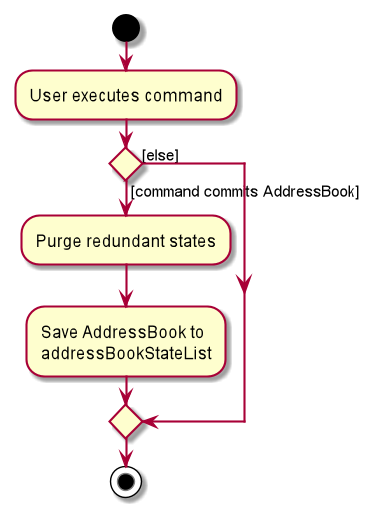
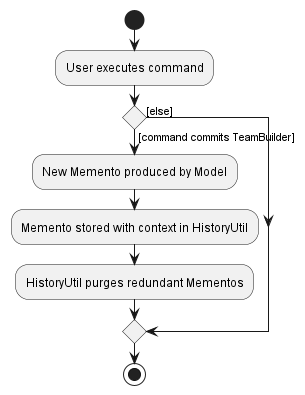
Update Undo/Redo DG

diff --git a/docs/DeveloperGuide.md b/docs/DeveloperGuide.md
@@ -1,7 +1,16 @@
 ---
 layout: page
 title: Developer Guide
+include: style.css 
 ---
+<style> 
+   img.center {
+      display: block;
+      margin-left: auto;
+      margin-right: auto;
+   }
+</style>
+
 * Table of Contents
 {:toc}
 
@@ -71,7 +80,7 @@ The sections below give more details of each component.
 
 The **API** of this component is specified in [`Ui.java`](https://github.com/se-edu/addressbook-level3/tree/master/src/main/java/seedu/address/ui/Ui.java)
 
-![Structure of the UI Component](images/UiClassDiagram.png)
+![Structure of the UI Component](images/UiClassDiagram.png) 
 
 The UI consists of a `MainWindow` that is made up of parts e.g.`CommandBox`, `ResultDisplay`, `PersonListPanel`, `StatusBarFooter` etc. All these, including the `MainWindow`, inherit from the abstract `UiPart` class which captures the commonalities between classes that represent parts of the visible GUI.
 
@@ -154,85 +163,104 @@ Classes used by multiple components are in the `seedu.addressbook.commons` packa
 
 This section describes some noteworthy details on how certain features are implemented.
 
-### \[Proposed\] Undo/redo feature
+### Undo/Redo feature
 
-#### Proposed Implementation
+#### Implementation
 
-The proposed undo/redo mechanism is facilitated by `VersionedAddressBook`. It extends `AddressBook` with an undo/redo history, stored internally as an `addressBookStateList` and `currentStatePointer`. Additionally, it implements the following operations:
+The `undo`/`redo` mechanism is based on the memento design pattern. Within the memento design pattern, there are three main classes:
 
-* `VersionedAddressBook#commit()` — Saves the current address book state in its history.
-* `VersionedAddressBook#undo()` — Restores the previous address book state from its history.
-* `VersionedAddressBook#redo()` — Restores a previously undone address book state from its history.
+1. `Originator` - The object that becomes modified and requires to be restored using `undo`/`redo`.
+2. `Memento` - The wrapper of a saved state of an `Originator` that is used to restore the `Originator`.
+3. `Caretaker` - The aggregator of `Memento` that controls the sequence of `Memento`s for `undo`/`redo`.
 
-These operations are exposed in the `Model` interface as `Model#commitAddressBook()`, `Model#undoAddressBook()` and `Model#redoAddressBook()` respectively.
+![Memento Design Pattern](images/MementoDesignPatternDiagram.png){:.center}
+
+While the Memento Design Pattern is mostly used for `Undo`, we can extend its functionality to include `Redo`.
+
+Implementing this design pattern results in the following:
+
+- `Model` inferface extends the `Originator` interface, resulting in a concrete `Originator` in `ModelManger`.
+- `TeamBuilderMemento` implements the `Memento` interface and acts as a saved state of `ModelManager`
+- `HistoryUtil` replaces the `Caretaker` and tracks the timeline and order of `Memento`
+- Any modifying `Command` will call `HistoryUtil#storePast` with `Model#save()` and their `COMMAND_WORD`.  
+(`AddCommand` is given as an example.)
+
+![Implemented Memento Design](images/ImplementedMementoDesignDiagram.png){:.center}
+
+As we want `undo`/`redo` to provide feedback to the user, the `Commands` must provide context to `HistoryUtil`
+
 
 Given below is an example usage scenario and how the undo/redo mechanism behaves at each step.
 
-Step 1. The user launches the application for the first time. The `VersionedAddressBook` will be initialized with the initial address book state, and the `currentStatePointer` pointing to that single address book state.
+**Step 1.** 
+The user launches the application for the first time. The `HistoryUtil` will be initialized with two empty `Memento` arrays, one for `undo` and another for `redo`. The array counter will be `-1` indicating totally empty arrays.
 
-![UndoRedoState0](images/UndoRedoState0.png)
+![UndoRedoState0](images/NewUndoRedoState0.png){:.center}
 
-Step 2. The user executes `delete 5` command to delete the 5th person in the address book. The `delete` command calls `Model#commitAddressBook()`, causing the modified state of the address book after the `delete 5` command executes to be saved in the `addressBookStateList`, and the `currentStatePointer` is shifted to the newly inserted address book state.
+**Step 2.**
+The user executes `delete 5` command to delete the 5th person in the team builder. The `delete` command calls `Model#save()` before any actions, causing the initial state of the team builder to be saved as a `Memento`. The `delete` command provides the resutling `Memeto` and the context of the change (deleting 5) to `HistoryUtil#storePast`. The `Memento` is saved in `undoHistory` and the array counter increases to `0`.
 
-![UndoRedoState1](images/UndoRedoState1.png)
+![UndoRedoState1](images/NewUndoRedoState1.png){:.center}
 
-Step 3. The user executes `add n/David …` to add a new person. The `add` command also calls `Model#commitAddressBook()`, causing another modified address book state to be saved into the `addressBookStateList`.
+Step 3. The user executes `add n/David …` to add a new person. The `add` command also calls `Model#save()` before any actions, saving another `Memento`. The `Memento` and description (add n/david ...) is stored through `HistoryUtil#storePast`. The `Memento` is saved in `undoHistory` and the array counter increases to `1`.
 
-![UndoRedoState2](images/UndoRedoState2.png)
+![UndoRedoState2](images/NewUndoRedoState2.png){:.center}
 
-<div markdown="span" class="alert alert-info">:information_source: **Note:** If a command fails its execution, it will not call `Model#commitAddressBook()`, so the address book state will not be saved into the `addressBookStateList`.
+<div markdown="span" class="alert alert-info ">:information_source:**Note:** If a command fails its execution, it will not call `Model#save()`, so the `Memento` is not stored in `HistoryUtil`.
 
 </div>
 
-Step 4. The user now decides that adding the person was a mistake, and decides to undo that action by executing the `undo` command. The `undo` command will call `Model#undoAddressBook()`, which will shift the `currentStatePointer` once to the left, pointing it to the previous address book state, and restores the address book to that state.
+Step 4. The user now decides that adding the person was a mistake, and decides to undo that action by executing the `undo` command. The `undo` command will call `HistoryUtil#undo`, which will call `Memento#restore()` on `undoHistory[currentNum]`. `Memento#restore()` will be called and state before the `add` command is restored. `HistoryUtil#undo` also moves the `Memento` into `redoFuture` and outputs an `Optional<String> description` to the `undo` command. The `undo` command then feedbacks to the user that the undo has occured successfully.  
 
-![UndoRedoState3](images/UndoRedoState3.png)
+![UndoRedoState3](images/NewUndoRedoState3.png){:.center}
 
-<div markdown="span" class="alert alert-info">:information_source: **Note:** If the `currentStatePointer` is at index 0, pointing to the initial AddressBook state, then there are no previous AddressBook states to restore. The `undo` command uses `Model#canUndoAddressBook()` to check if this is the case. If so, it will return an error to the user rather
-than attempting to perform the undo.
+<div markdown="span" class="alert alert-info">:information_source: **Note:** If the `currentNum` is at index -1, then there are no previous TeamBuilder states to restore. In this case, `HistoryUtil#undo` returns `Optional.empty()`. 
+As `undo` command uses `Optional::isPresent` to check if undo is successful, it will then return an error message to the user.
 
 </div>
 
 The following sequence diagram shows how the undo operation works:
 
-![UndoSequenceDiagram](images/UndoSequenceDiagram.png)
+![UndoSequenceDiagram](images/NewUndoSequenceDiagram.png){:.center}
 
-<div markdown="span" class="alert alert-info">:information_source: **Note:** The lifeline for `UndoCommand` should end at the destroy marker (X) but due to a limitation of PlantUML, the lifeline reaches the end of diagram.
-
-</div>
-
-The `redo` command does the opposite — it calls `Model#redoAddressBook()`, which shifts the `currentStatePointer` once to the right, pointing to the previously undone state, and restores the address book to that state.
-
-<div markdown="span" class="alert alert-info">:information_source: **Note:** If the `currentStatePointer` is at index `addressBookStateList.size() - 1`, pointing to the latest address book state, then there are no undone AddressBook states to restore. The `redo` command uses `Model#canRedoAddressBook()` to check if this is the case. If so, it will return an error to the user rather than attempting to perform the redo.
+<div markdown="span" class="alert alert-info">:information_source:**Note:** The lifeline for `UndoCommand` should end at the destroy marker (X) but due to a limitation of PlantUML, the lifeline reaches the end of diagram.
 
 </div>
 
-Step 5. The user then decides to execute the command `list`. Commands that do not modify the address book, such as `list`, will usually not call `Model#commitAddressBook()`, `Model#undoAddressBook()` or `Model#redoAddressBook()`. Thus, the `addressBookStateList` remains unchanged.
+The `redo` command does the opposite — it calls `HistoryUtil#redo()`, which checks the `redoFuture` for any `Memento` to restore at `counterNum`. If present, the `Memento` is restored and a `Optional<String>` containing the description of the `Memento` is given to the `redo` command. The restored `Memento` is moved to `undoHistory` and removed from `redoFuture`. The `redo` command feedbacks the output to the user.
 
-![UndoRedoState4](images/UndoRedoState4.png)
+<div markdown="span" class="alert alert-info">:information_source: **Note:** If the `counterNum` is at an index where `redoFuture` is null, then there are no undone `Memento` to restore. The `redo` command uses the `Optional<String>` output `Optional::isPresent` to check if this is the case. If so, it will return an error message the user.
 
-Step 6. The user executes `clear`, which calls `Model#commitAddressBook()`. Since the `currentStatePointer` is not pointing at the end of the `addressBookStateList`, all address book states after the `currentStatePointer` will be purged. Reason: It no longer makes sense to redo the `add n/David …` command. This is the behavior that most modern desktop applications follow.
+</div>
 
-![UndoRedoState5](images/UndoRedoState5.png)
+Step 5. The user then decides to execute the command `list`. Commands that do not modify the address book, such as `list`, will usually not call `Model#Save()`, `HistroyUtil#storePast` , `HistroyUtil#undo`, `HistoryUtil#redo`. Thus, the `Model` remains unchanged.
+
+![UndoRedoState4](images/NewUndoRedoState4.png){:.center}
+
+Step 6. The user executes `clear`, which calls `Model#Save` and stores the resulting `Memento` and description (clear) into `HistoryUtil#storePast`. Since there is a new `Memento` for `undoHistory` that is not from `redoFuture`, all `Memento` in `redoFuture` are purged. Reason: It no longer makes sense to redo the `add n/David …` command. This is the behavior that most modern desktop applications follow.
+
+![UndoRedoState5](images/NewUndoRedoState5.png){:.center}
 
 The following activity diagram summarizes what happens when a user executes a new command:
 
-<img src="images/CommitActivityDiagram.png" width="250" />
+<img class="center" src="images/CommitActivityDiagram.png" width="250" /> 
 
 #### Design considerations:
 
 **Aspect: How undo & redo executes:**
 
-* **Alternative 1 (current choice):** Saves the entire address book.
-  * Pros: Easy to implement.
-  * Cons: May have performance issues in terms of memory usage.
+* **Alternative 1 (current choice):** Saves the state of the team builder found in ModelManager (Current choice).
+  * Pros: Easy to implement, easy to extend, easy to modify of "state" saved.
+  * Cons: May have performance issues in terms of memory usage if state saved is too large.
 
 * **Alternative 2:** Individual command knows how to undo/redo by
   itself.
   * Pros: Will use less memory (e.g. for `delete`, just save the person being deleted).
   * Cons: We must ensure that the implementation of each individual command are correct.
+* **Alternative 3:** Save the entire team builder inside VersionedTeamBuilder, replacing TeamBuilder (Original AB-3 Choice)
+  * Pros: Easy to implement.
+  * Cons: Difficult to extend. Performance issues in terms of memeory usage. Undo/Redo timeline tied to TeamBuilder. No user feedback on what command was undone/redone.
 
-_{more aspects and alternatives to be added}_
 
 ### \[Proposed\] Data archiving
 
